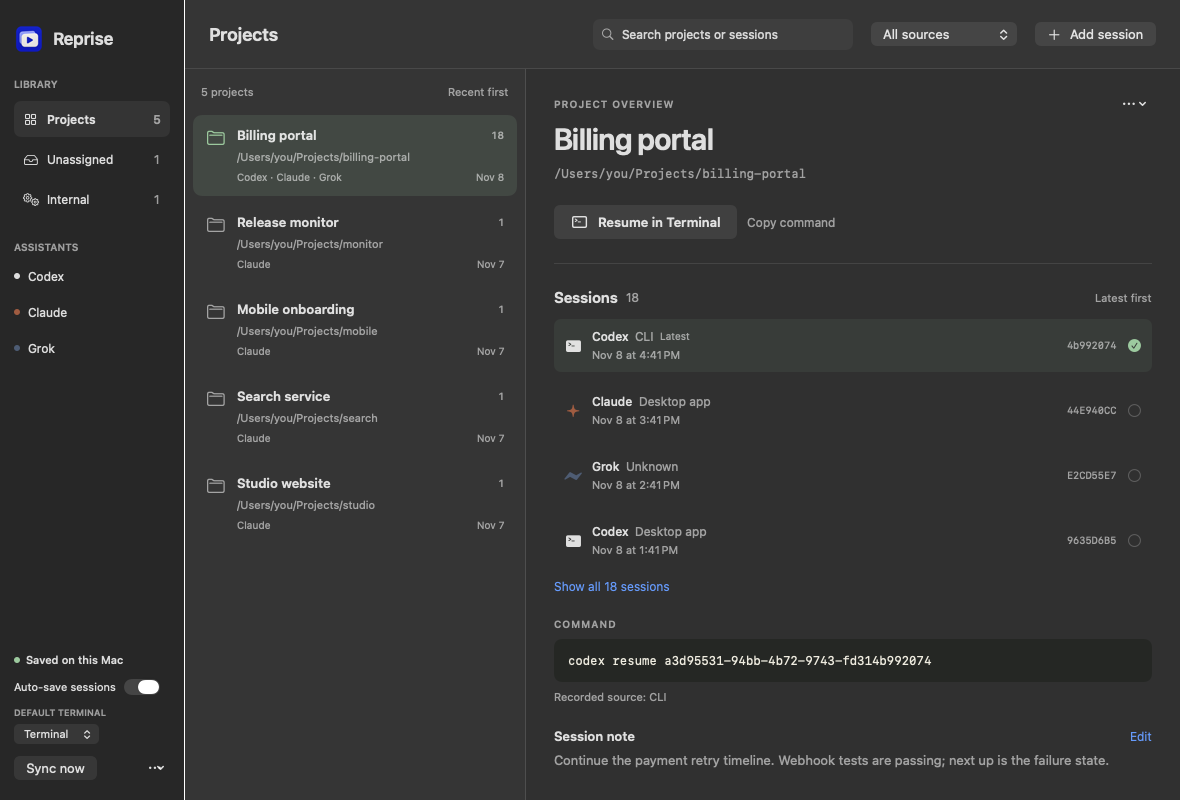
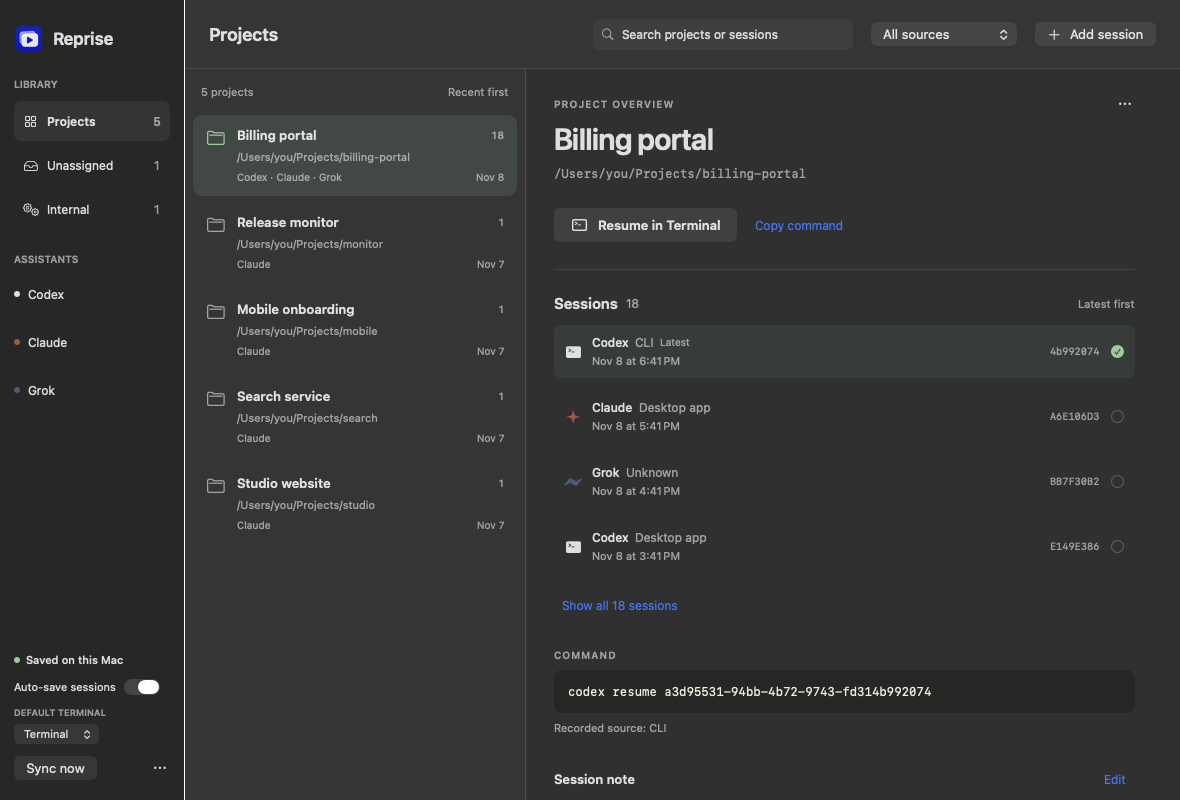
Make full rows and padded button areas respond to clicks

diff --git a/macos/Sources/Reprise/LibraryView.swift b/macos/Sources/Reprise/LibraryView.swift
@@ -97,10 +97,10 @@ struct LibraryView: View {
                             Spacer(minLength: 2)
                             Text("\(count(item))").monospacedDigit().foregroundStyle(.secondary)
                         }.font(.system(size: 12, weight: area == item ? .semibold : .regular))
-                            .padding(.horizontal, 9).frame(height: 36)
+                            .padding(.horizontal, 9).frame(height: 40)
                             .foregroundStyle(.primary)
                             .background(area == item ? Color.primary.opacity(0.07) : .clear, in: RoundedRectangle(cornerRadius: 7))
-                    }.buttonStyle(.plain)
+                    }.buttonStyle(RepriseRowButtonStyle()).accessibilityIdentifier("library.area.\(item.id)")
                 }
             }
             VStack(alignment: .leading, spacing: 8) {
@@ -112,8 +112,8 @@ struct LibraryView: View {
                             Text(assistant.displayName)
                             Spacer()
                             if model == assistant { Image(systemName: "checkmark") }
-                        }.font(.system(size: 12)).foregroundStyle(.primary).frame(height: 28)
-                    }.buttonStyle(.plain)
+                        }.font(.system(size: 12)).foregroundStyle(.primary).frame(height: 40)
+                    }.buttonStyle(RepriseRowButtonStyle()).accessibilityIdentifier("library.assistant.\(assistant.id)")
                 }
             }
             Spacer()
@@ -133,7 +133,8 @@ struct LibraryView: View {
                     Menu {
                         Text(store.syncMessage)
                         Button("Restore removed sessions") { Task { await store.restoreHiddenSessions() } }
-                    } label: { Image(systemName: "ellipsis") }.menuStyle(.borderlessButton).frame(width: 20)
+                    } label: { Image(systemName: "ellipsis").frame(width: 40, height: 40).contentShape(Rectangle()) }
+                        .menuStyle(.borderlessButton).menuIndicator(.hidden).accessibilityLabel("Library options")
                 }.font(.system(size: 11))
             }
         }.padding(.horizontal, 14).padding(.bottom, 20).background(Color.repriseCanvas)
@@ -146,7 +147,11 @@ struct LibraryView: View {
             HStack(spacing: 7) {
                 Image(systemName: "magnifyingglass").foregroundStyle(.secondary)
                 TextField("Search projects or sessions", text: $search).textFieldStyle(.plain).accessibilityLabel("Search projects")
-                if !search.isEmpty { Button { search = "" } label: { Image(systemName: "xmark.circle.fill") }.buttonStyle(.plain) }
+                if !search.isEmpty {
+                    Button { search = "" } label: { Image(systemName: "xmark.circle.fill") }
+                        .buttonStyle(RepriseQuietButtonStyle(minimumSize: 32, tint: .secondary))
+                        .accessibilityLabel("Clear search")
+                }
             }.font(.system(size: 12)).padding(8).frame(maxWidth: 260).background(Color.primary.opacity(0.05), in: RoundedRectangle(cornerRadius: 7))
             Picker("Source", selection: $origin) {
                 Text("All sources").tag(nil as SessionOrigin?)
@@ -193,7 +198,7 @@ struct LibraryView: View {
                                 }
                             }.foregroundStyle(.primary).padding(12).frame(maxWidth: .infinity, alignment: .leading)
                                 .background(projectID == group.id ? Color.repriseGreen.opacity(0.13) : .clear, in: RoundedRectangle(cornerRadius: 9))
-                        }.buttonStyle(.plain)
+                        }.buttonStyle(RepriseRowButtonStyle()).accessibilityIdentifier("library.project.\(group.id)")
                     }
                 }.padding(.horizontal, 8)
             }
@@ -215,7 +220,8 @@ struct LibraryView: View {
                                 if let directory = project.directory { Button("Show in Finder") { NSWorkspace.shared.selectFile(nil, inFileViewerRootedAtPath: directory) } }
                                 Divider()
                                 Button("Remove selected session", role: .destructive) { removing = session }
-                            } label: { Image(systemName: "ellipsis") }.menuStyle(.borderlessButton).frame(width: 28)
+                            } label: { Image(systemName: "ellipsis").frame(width: 40, height: 40).contentShape(Rectangle()) }
+                                .menuStyle(.borderlessButton).menuIndicator(.hidden).accessibilityLabel("Project options")
                         }
                         Text(project.title).font(.system(size: 30, weight: .semibold)).tracking(-0.7).textSelection(.enabled)
                         Text(project.displayDirectory).font(.system(size: 12, design: .monospaced)).foregroundStyle(.secondary).textSelection(.enabled)
@@ -244,7 +250,7 @@ struct LibraryView: View {
                         Button(copied ? "Copied" : "Copy command") {
                             NSPasteboard.general.clearContents(); NSPasteboard.general.setString(session.command, forType: .string)
                             copied = true; Task { try? await Task.sleep(for: .seconds(1.5)); copied = false }
-                        }.buttonStyle(.borderless).font(.system(size: 12))
+                        }.buttonStyle(RepriseQuietButtonStyle()).font(.system(size: 12))
                     }
                     Divider()
                     VStack(alignment: .leading, spacing: 12) {
@@ -259,12 +265,13 @@ struct LibraryView: View {
                         }
                         if project.sessions.count > 4 {
                             Button(showAllSessions ? "Show recent sessions" : "Show all \(project.sessions.count) sessions") { showAllSessions.toggle() }
-                                .buttonStyle(.link).font(.system(size: 12))
+                                .buttonStyle(RepriseQuietButtonStyle()).font(.system(size: 12))
                         }
                     }
                     VStack(alignment: .leading, spacing: 8) {
                         Text("COMMAND").font(.system(size: 10, weight: .semibold)).tracking(1).foregroundStyle(.secondary)
                         Text(session.command).font(.system(size: 12, design: .monospaced)).textSelection(.enabled)
+                            .accessibilityIdentifier("session.command")
                             .foregroundStyle(Color.repriseBone).padding(14).frame(maxWidth: .infinity, alignment: .leading)
                             .background(Color.repriseTerminal, in: RoundedRectangle(cornerRadius: 8))
                         Text("Recorded source: \(session.origin.title)\(session.originOverride == nil ? "" : " (manual)")")
@@ -278,7 +285,8 @@ struct LibraryView: View {
                         HStack {
                             Text("Session note").font(.system(size: 13, weight: .semibold))
                             Spacer()
-                            Button(session.note.isEmpty ? "Add note" : "Edit") { editing = session }.buttonStyle(.link).font(.system(size: 12))
+                            Button(session.note.isEmpty ? "Add note" : "Edit") { editing = session }
+                                .buttonStyle(RepriseQuietButtonStyle()).font(.system(size: 12))
                         }
                         Text(session.note.isEmpty ? "What would you like to pick up next?" : session.note)
                             .font(.system(size: 13)).foregroundStyle(.secondary).textSelection(.enabled)
@@ -309,7 +317,7 @@ struct LibraryView: View {
                 Image(systemName: selected ? "checkmark.circle.fill" : "circle").foregroundStyle(selected ? Color.repriseGreen : Color.secondary.opacity(0.4))
             }.foregroundStyle(.primary).padding(10).frame(maxWidth: .infinity)
                 .background(selected ? Color.repriseGreen.opacity(0.08) : .clear, in: RoundedRectangle(cornerRadius: 7))
-        }.buttonStyle(.plain)
+        }.buttonStyle(RepriseRowButtonStyle()).accessibilityIdentifier("library.session.\(item.id)")
     }
 
     private func chooseDirectory(_ project: ProjectGroup) {

diff --git a/macos/Tests/RepriseTests/HitAreaTests.swift b/macos/Tests/RepriseTests/HitAreaTests.swift
@@ -1,0 +1,81 @@
+import AppKit
+import SwiftUI
+import XCTest
+@testable import Reprise
+
+@MainActor
+final class HitAreaTests: XCTestCase {
+    func testRowPaddingAndSpacerTriggerTheAction() {
+        var presses = 0
+        let button = Button { presses += 1 } label: {
+            HStack {
+                Text("Project name")
+                Spacer()
+            }.padding(16).frame(width: 300, height: 80)
+        }.buttonStyle(RepriseRowButtonStyle())
+
+        withWindow(button, size: NSSize(width: 300, height: 80)) { window in
+            for (index, point) in [NSPoint(x: 5, y: 5), NSPoint(x: 295, y: 75), NSPoint(x: 250, y: 40)].enumerated() {
+                click(point, in: window)
+                XCTAssertEqual(presses, index + 1, "Blank row padding and Spacer must be clickable")
+            }
+        }
+    }
+
+    func testIconPaddingTriggersActionWithoutExtendingOutsideControl() {
+        var presses = 0
+        let button = Button { presses += 1 } label: { Image(systemName: "doc.on.doc") }
+            .buttonStyle(RepriseQuietButtonStyle())
+            .frame(width: 80, height: 80)
+        withWindow(button, size: NSSize(width: 80, height: 80)) { window in
+            click(NSPoint(x: 22, y: 22), in: window)
+            XCTAssertEqual(presses, 1, "Padding around the small icon must be clickable")
+            click(NSPoint(x: 5, y: 5), in: window)
+            XCTAssertEqual(presses, 1, "The target must stop at the control's bounds")
+        }
+    }
+
+    func testDisabledActionDoesNotRespondToPaddingClicks() {
+        var presses = 0
+        let button = Button { presses += 1 } label: { Text("Copy") }
+            .buttonStyle(RepriseQuietButtonStyle())
+            .disabled(true)
+            .frame(width: 100, height: 80)
+        withWindow(button, size: NSSize(width: 100, height: 80)) { window in
+            click(NSPoint(x: 32, y: 22), in: window)
+            XCTAssertEqual(presses, 0)
+        }
+    }
+
+    private func withWindow<Content: View>(_ content: Content, size: NSSize, body: (NSWindow) -> Void) {
+        _ = NSApplication.shared
+        let view = NSHostingView(rootView: content)
+        view.frame = NSRect(origin: .zero, size: size)
+        let window = NSWindow(contentRect: view.frame, styleMask: [.borderless], backing: .buffered, defer: false)
+        window.contentView = view
+        window.makeKeyAndOrderFront(nil)
+        view.layoutSubtreeIfNeeded()
+        settle()
+        body(window)
+        window.orderOut(nil)
+    }
+
+    private func click(_ point: NSPoint, in window: NSWindow) {
+        let down = NSEvent.mouseEvent(with: .leftMouseDown, location: point, modifierFlags: [],
+            timestamp: ProcessInfo.processInfo.systemUptime, windowNumber: window.windowNumber,
+            context: nil, eventNumber: 1, clickCount: 1, pressure: 1)!
+        let up = NSEvent.mouseEvent(with: .leftMouseUp, location: point, modifierFlags: [],
+            timestamp: down.timestamp + 0.01, windowNumber: window.windowNumber,
+            context: nil, eventNumber: 2, clickCount: 1, pressure: 0)!
+        NSApp.postEvent(up, atStart: false)
+        window.sendEvent(down)
+        while let event = NSApp.nextEvent(matching: .any, until: Date(), inMode: .default, dequeue: true) {
+            NSApp.sendEvent(event)
+        }
+        settle()
+    }
+
+    private func settle() {
+        RunLoop.main.run(until: Date().addingTimeInterval(0.05))
+    }
+}

diff --git a/macos/Sources/Reprise/CapturePopoverView.swift b/macos/Sources/Reprise/CapturePopoverView.swift
@@ -55,7 +55,8 @@ struct CapturePopoverView: View {
                 } label: {
                     Image(systemName: "xmark")
                 }
-                .buttonStyle(.borderless)
+                .buttonStyle(RepriseQuietButtonStyle(tint: .primary))
+                .accessibilityLabel("Cancel capture")
                 .help("Cancel capture")
             }
         }
@@ -84,7 +85,7 @@ struct CapturePopoverView: View {
             )
 
             Button("Enter a command manually") { coordinator.startManual() }
-                .buttonStyle(.link)
+                .buttonStyle(RepriseQuietButtonStyle())
 
             if let error = coordinator.errorMessage {
                 Label(error, systemImage: "exclamationmark.circle")
@@ -101,7 +102,7 @@ struct CapturePopoverView: View {
                             .foregroundStyle(.tertiary)
                         Spacer()
                         Button("Open library", action: openLibrary)
-                            .buttonStyle(.link)
+                            .buttonStyle(RepriseQuietButtonStyle())
                             .font(.system(size: 11, weight: .semibold))
                     }
 
@@ -268,7 +269,7 @@ struct CapturePopoverView: View {
                 .font(.system(size: 11))
                 .foregroundStyle(.secondary)
             Spacer()
-            Button("Library", action: openLibrary).buttonStyle(.link)
+            Button("Library", action: openLibrary).buttonStyle(RepriseQuietButtonStyle())
             Menu {
                 Button("Open Library", action: openLibrary)
                 TerminalPreferencePicker()
@@ -276,13 +277,14 @@ struct CapturePopoverView: View {
                 Button("Quit Reprise", action: quit)
                     .keyboardShortcut("q")
             } label: {
-                Image(systemName: "ellipsis.circle")
+                Image(systemName: "ellipsis.circle").frame(width: 40, height: 40).contentShape(Rectangle())
             }
             .menuStyle(.borderlessButton)
-            .frame(width: 26)
+            .menuIndicator(.hidden)
+            .accessibilityLabel("Reprise options")
         }
         .padding(.horizontal, 16)
-        .frame(height: 40)
+        .frame(height: 48)
     }
 }
 
@@ -317,7 +319,7 @@ private struct DropTargetCard: View {
                 .foregroundStyle(.tertiary)
         }
         .frame(maxWidth: .infinity)
-        .frame(height: 235)
+        .frame(height: 220)
         .background(
             (isTargeted ? Color.repriseGreen.opacity(0.12) : Color.repriseCanvas),
             in: RoundedRectangle(cornerRadius: 12, style: .continuous)
@@ -388,7 +390,8 @@ private struct CompactSessionRow: View {
             } label: {
                 Image(systemName: "doc.on.doc")
             }
-            .buttonStyle(.borderless)
+            .buttonStyle(RepriseQuietButtonStyle(tint: .primary))
+            .accessibilityLabel("Copy resume command")
             .help("Copy resume command")
         }
     }

diff --git a/macos/Tests/RepriseTests/WorkflowTests.swift b/macos/Tests/RepriseTests/WorkflowTests.swift
@@ -118,21 +118,25 @@ final class WorkflowTests: XCTestCase {
             window.orderOut(nil)
         }
         let capture = CaptureCoordinator(store: store)
-        capture.startManual()
-        capture.project = "Billing portal"
-        capture.projectDirectory = "/Users/developer/Projects/billing-portal"
-        capture.command = "codex resume \(identifier)"
-        let view = NSHostingView(rootView: CapturePopoverView(coordinator: capture, store: store, openLibrary: {}, quit: {}))
-        view.frame = NSRect(x: 0, y: 0, width: 480, height: 620)
-        let window = NSWindow(contentRect: view.frame, styleMask: [.borderless], backing: .buffered, defer: false)
-        window.contentView = view
-        view.layoutSubtreeIfNeeded()
-        RunLoop.main.run(until: Date().addingTimeInterval(0.25))
-        let bitmap = try XCTUnwrap(view.bitmapImageRepForCachingDisplay(in: view.bounds))
-        view.cacheDisplay(in: view.bounds, to: bitmap)
-        try XCTUnwrap(bitmap.representation(using: .png, properties: [:]))
-            .write(to: URL(fileURLWithPath: output).appendingPathComponent("capture-review.png"))
-        window.orderOut(nil)
+        for name in ["capture-idle", "capture-review"] {
+            if name == "capture-review" {
+                capture.startManual()
+                capture.project = "Billing portal"
+                capture.projectDirectory = "/Users/developer/Projects/billing-portal"
+                capture.command = "codex resume \(identifier)"
+            }
+            let view = NSHostingView(rootView: CapturePopoverView(coordinator: capture, store: store, openLibrary: {}, quit: {}))
+            view.frame = NSRect(x: 0, y: 0, width: 480, height: 620)
+            let window = NSWindow(contentRect: view.frame, styleMask: [.borderless], backing: .buffered, defer: false)
+            window.contentView = view
+            view.layoutSubtreeIfNeeded()
+            RunLoop.main.run(until: Date().addingTimeInterval(0.25))
+            let bitmap = try XCTUnwrap(view.bitmapImageRepForCachingDisplay(in: view.bounds))
+            view.cacheDisplay(in: view.bounds, to: bitmap)
+            try XCTUnwrap(bitmap.representation(using: .png, properties: [:]))
+                .write(to: URL(fileURLWithPath: output).appendingPathComponent("\(name).png"))
+            window.orderOut(nil)
+        }
     }
 
     func testLiveDiscoveryWhenRequested() {

diff --git a/macos/Sources/Reprise/ButtonStyles.swift b/macos/Sources/Reprise/ButtonStyles.swift
@@ -1,0 +1,30 @@
+import SwiftUI
+
+/// Plain SwiftUI buttons otherwise ignore transparent padding and Spacer areas.
+/// Apply the shape here, after the label has established its full row bounds.
+struct RepriseRowButtonStyle: ButtonStyle {
+    func makeBody(configuration: Configuration) -> some View {
+        configuration.label
+            .contentShape(Rectangle())
+            .opacity(configuration.isPressed ? 0.7 : 1)
+    }
+}
+
+/// A text or icon action with a real target, including its blank padding.
+struct RepriseQuietButtonStyle: ButtonStyle {
+    var minimumSize: CGFloat = 40
+    var tint: Color = .accentColor
+
+    @Environment(\.isEnabled) private var isEnabled
+
+    func makeBody(configuration: Configuration) -> some View {
+        configuration.label
+            .padding(.horizontal, 8)
+            .frame(minWidth: minimumSize, minHeight: minimumSize)
+            .foregroundStyle(tint)
+            .background(configuration.isPressed ? Color.primary.opacity(0.08) : .clear,
+                in: RoundedRectangle(cornerRadius: 7))
+            .contentShape(Rectangle())
+            .opacity(isEnabled ? 1 : 0.4)
+    }
+}

diff --git a/CHANGELOG.md b/CHANGELOG.md
@@ -1,5 +1,12 @@
 # Release notes
 
+## 1.4.2
+
+- Make the entire project card, session row, navigation row, and assistant filter clickable, including transparent padding and space between labels.
+- Give copy, library, note, history, cancel, and other small text/icon actions padded hit areas, with press feedback and disabled states.
+- Enlarge sidebar rows and options menu labels, label icon-only controls for accessibility, and keep the capture popup within its available space.
+- Add mouse-event regression tests covering empty row space, icon padding, control boundaries, and disabled actions.
+
 ## 1.4.1
 
 - Keep a single running Reprise instance across installed and build-folder copies, preventing duplicate menubar icons and concurrent library writers.
